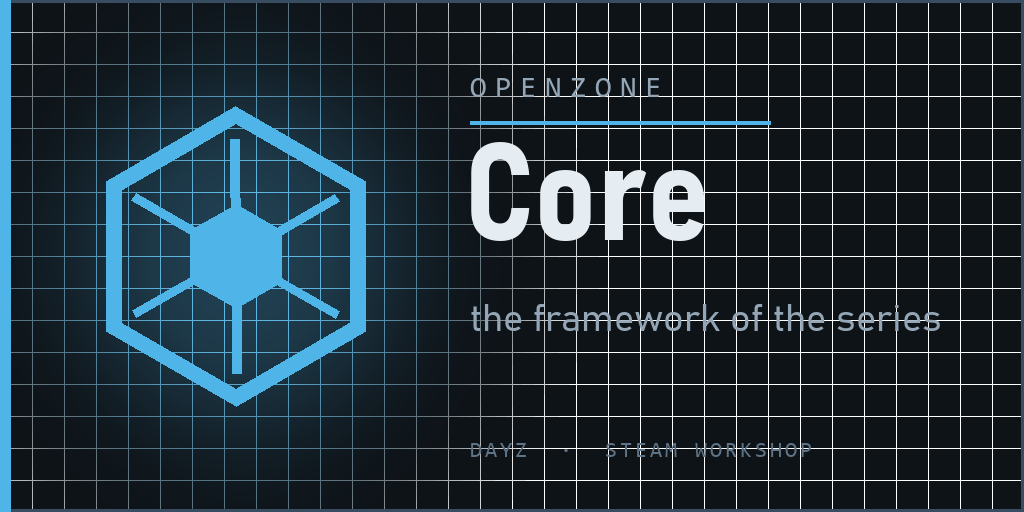
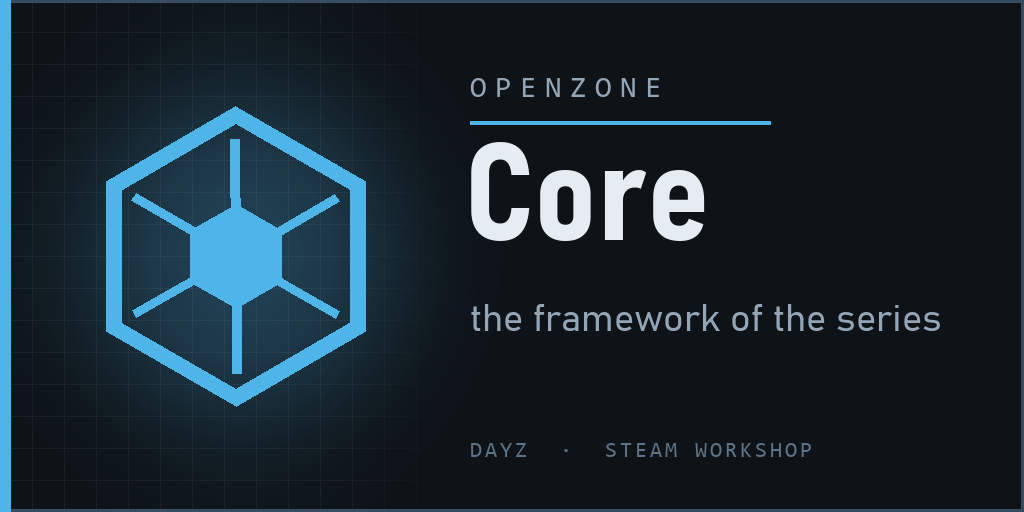
Packaging: readable Workshop titles, previews without the grid under the text
meta.cpp carries the item's Workshop title; the items are renamed from
their folder names to plain ones ("OpenZone Core", "OpenZone Radio for
PDA", "... for VPP Admin Tools"). The preview keeps its grid under the
icon only, fading out before the text column, and names no server.

diff --git a/packaging/OpenZone_VPP/meta.cpp b/packaging/OpenZone_VPP/meta.cpp
@@ -1,3 +1,3 @@
 protocol = 1;
 publishedid = 3798436187;
-name = "OZ_Core_VPP";
+name = "OpenZone Core for VPP Admin Tools";

diff --git a/packaging/OpenZone_Core/meta.cpp b/packaging/OpenZone_Core/meta.cpp
@@ -1,3 +1,3 @@
 protocol = 1;
 publishedid = 3798432022;
-name = "OZ_Core";
+name = "OpenZone Core";
